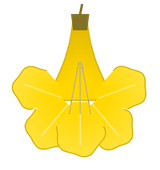
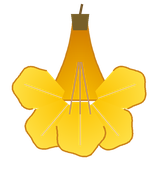
style(design): restaurar fundo acolhedor e tons originais harmonicos do Ipe

diff --git a/src/view/tokens.ts b/src/view/tokens.ts
@@ -42,14 +42,14 @@ export const colors = {
     onFoliage: "#FFFFFF",    // Texto e ícones sobre verde folhagem
   },
 
-  // Ipê da marca (Spec 078, Spec 116): florada amarela viva, cartão de leitor e fita marcadora
+  // Ipê da marca (Spec 078, Spec 116): florada amarela suave, aconchegante e harmoniosa
   ipe: {
-    container: "#FEF08A",    // Amarelo florada solar vivo e luminoso
+    container: "#FEF3C7",    // Amarelo florada suave, solar e acolhedor (combina com o fundo pólen)
     onContainer: "#451A03",  // Marrom tronco profundo de alto contraste (AAA > 12:1)
-    bloom: "#FACC15",        // Amarelo ouro solar radiante de ipê em plena florada
-    bloomDeep: "#EAB308",    // Dourado vivo (tubo e sépalas da flor)
-    petalSoft: "#FEF9C3",    // Pétala solar fresca de ipê
-    ribbon: "#FACC15",       // Fita marcadora dourada
+    bloom: "#F59E0B",        // Âmbar dourado nobre de ipê em florada
+    bloomDeep: "#D97706",    // Âmbar dourado vivo (tubo e sépalas da flor)
+    petalSoft: "#FFFBEB",    // Pétala solar fresca de ipê
+    ribbon: "#F59E0B",       // Fita marcadora dourada
     trunk: "#58331F",        // Tronco nobre
   },
 
@@ -179,11 +179,11 @@ export const darkColors: ColorPalette = {
   // Ipê da marca (Spec 078, Spec 116): florada no tema escuro com alto contraste e aconchego.
   ipe: {
     container: "#38290E",
-    onContainer: "#FEF08A",
-    bloom: "#FACC15",
-    bloomDeep: "#EAB308",
+    onContainer: "#FFE099",
+    bloom: "#F59E0B",
+    bloomDeep: "#D97706",
     petalSoft: "#281E0B",
-    ribbon: "#FACC15",
+    ribbon: "#F59E0B",
     trunk: "#e2b48c",
   },
 

diff --git a/tests/unit/ipeColorsVitality.test.ts b/tests/unit/ipeColorsVitality.test.ts
@@ -4,11 +4,11 @@ import { colors, darkColors } from "@/view/tokens";
 
 describe("Spec 116 — Cores Vivas do Ipê e Harmonia de Contraste", () => {
   it("tokens de ipê amarelo possuem tons de florada solar viva (não cinzentos ou desbotados)", () => {
-    // Ipê Amarelo vivo
-    expect(colors.ipe.bloom).toBe("#FACC15");
-    expect(colors.ipe.bloomDeep).toBe("#EAB308");
-    expect(colors.ipe.container).toBe("#FEF08A");
-    expect(colors.ipe.petalSoft).toBe("#FEF9C3");
+    // Ipê Amarelo suave e acolhedor (combina com o tema)
+    expect(colors.ipe.bloom).toBe("#F59E0B");
+    expect(colors.ipe.bloomDeep).toBe("#D97706");
+    expect(colors.ipe.container).toBe("#FEF3C7");
+    expect(colors.ipe.petalSoft).toBe("#FFFBEB");
     expect(colors.ipe.onContainer).toBe("#451A03");
 
     // Contraste do texto sobre o container do ipê no tema claro atinge padrão AAA (>= 7:1)

diff --git a/src/view/components/Chip.tsx b/src/view/components/Chip.tsx
@@ -24,7 +24,7 @@ export function Chip({ label, selected, onPress, disabled = false, accessibility
   const { scale, isPressed, onPressIn, onPressOut } = useExpressivePress({ disabled, pressedScale: 0.95 });
 
   return (
-    <Animated.View style={{ transform: [{ scale }] }}>
+    <Animated.View style={[styles.container, { transform: [{ scale }] }]}>
       <Pressable
         accessibilityRole="checkbox"
         accessibilityLabel={accessibilityLabel ?? label}
